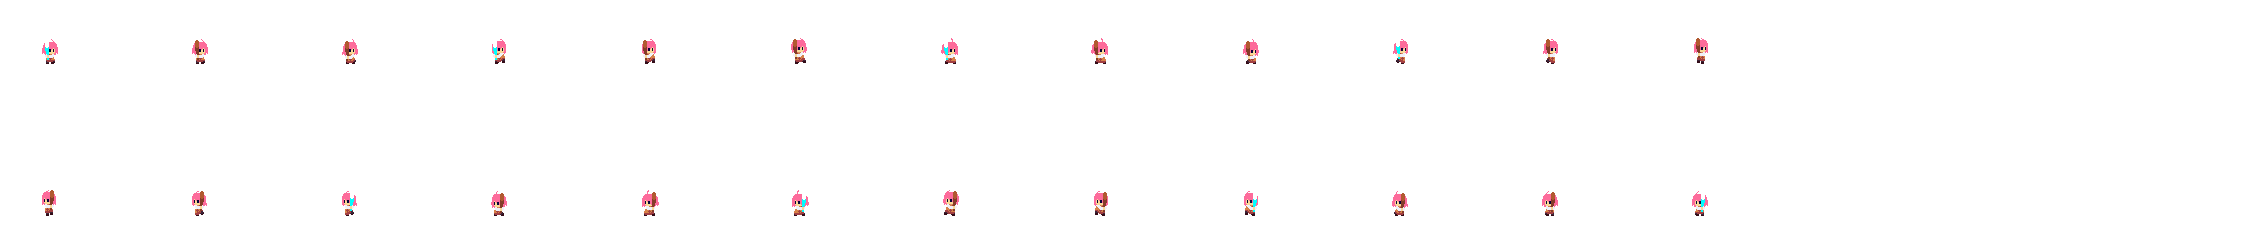
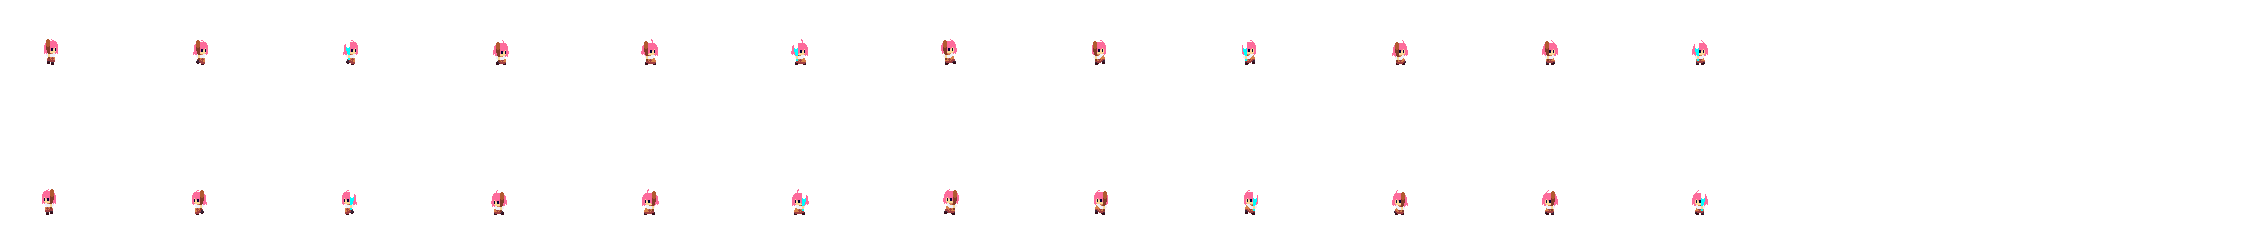
feat : critical 공격준비모션 추가

diff --git a/WinAPI/CGameManager.h b/WinAPI/CGameManager.h
@@ -15,6 +15,7 @@ public:
 private:
 	bool m_bTalk;
 	bool m_bAttack;
+	float m_fAttackTime;
 
 
 private :
@@ -23,11 +24,15 @@ private :
 
 
 public :
-	Vector GetPlayerPos() { return m_vecPlayerPos; }
-	void SetPlayerPos(Vector pos) { m_vecPlayerPos = pos; }
 
 	bool GetAttack() { return m_bAttack; }
 	void SetAttack(bool attack) { m_bAttack = attack; }
+
+	float GetAttackTime() { return m_fAttackTime; }
+	void SetAttackTime(float time) { m_fAttackTime = time; }
+
+	Vector GetPlayerPos() { return m_vecPlayerPos; }
+	void SetPlayerPos(Vector pos) { m_vecPlayerPos = pos; }
 
 	Vector GetPlayerDir() { return m_vecplayerDir; }
 	void SetPlayerDir(Vector dir) { m_vecplayerDir = dir; }

diff --git a/WinAPI/CCritical.h b/WinAPI/CCritical.h
@@ -1,0 +1,21 @@
+#pragma once
+#include "CGameObject.h"
+#include "framework.h"
+class CCritical: public CGameObject
+{
+public:
+	CCritical();
+	virtual ~CCritical();
+
+private:
+	float m_fTime;
+
+private:
+	void Init() override;
+	void Update() override;
+	void Render() override;
+	void Release() override;
+
+	void OnCollisionEnter(CCollider* pOtherCollider) override;
+
+};

diff --git a/WinAPI/CGameManager.cpp b/WinAPI/CGameManager.cpp
@@ -6,6 +6,7 @@ CGameManager::CGameManager()
 {
 	 m_bTalk = false;
 	 m_bAttack = false;
+	 m_fAttackTime = 0;
 
 
 	 m_vecPlayerPos = {0,0};

diff --git a/WinAPI/WinAPI.h b/WinAPI/WinAPI.h
@@ -79,6 +79,7 @@ enum class Behavior
 	AttackReady,
 	Attack,
 	Attack2,
+	CriticalReady,
 	Critical,
 
 	Size,
